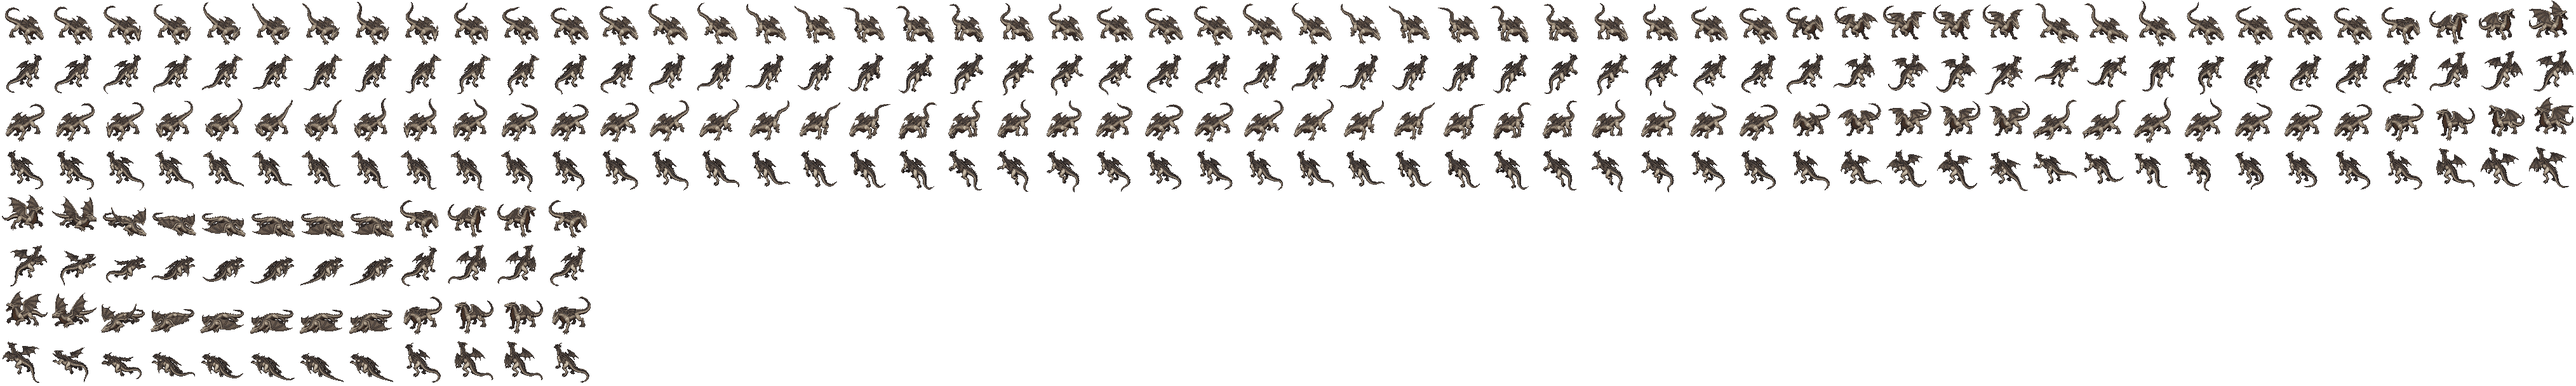
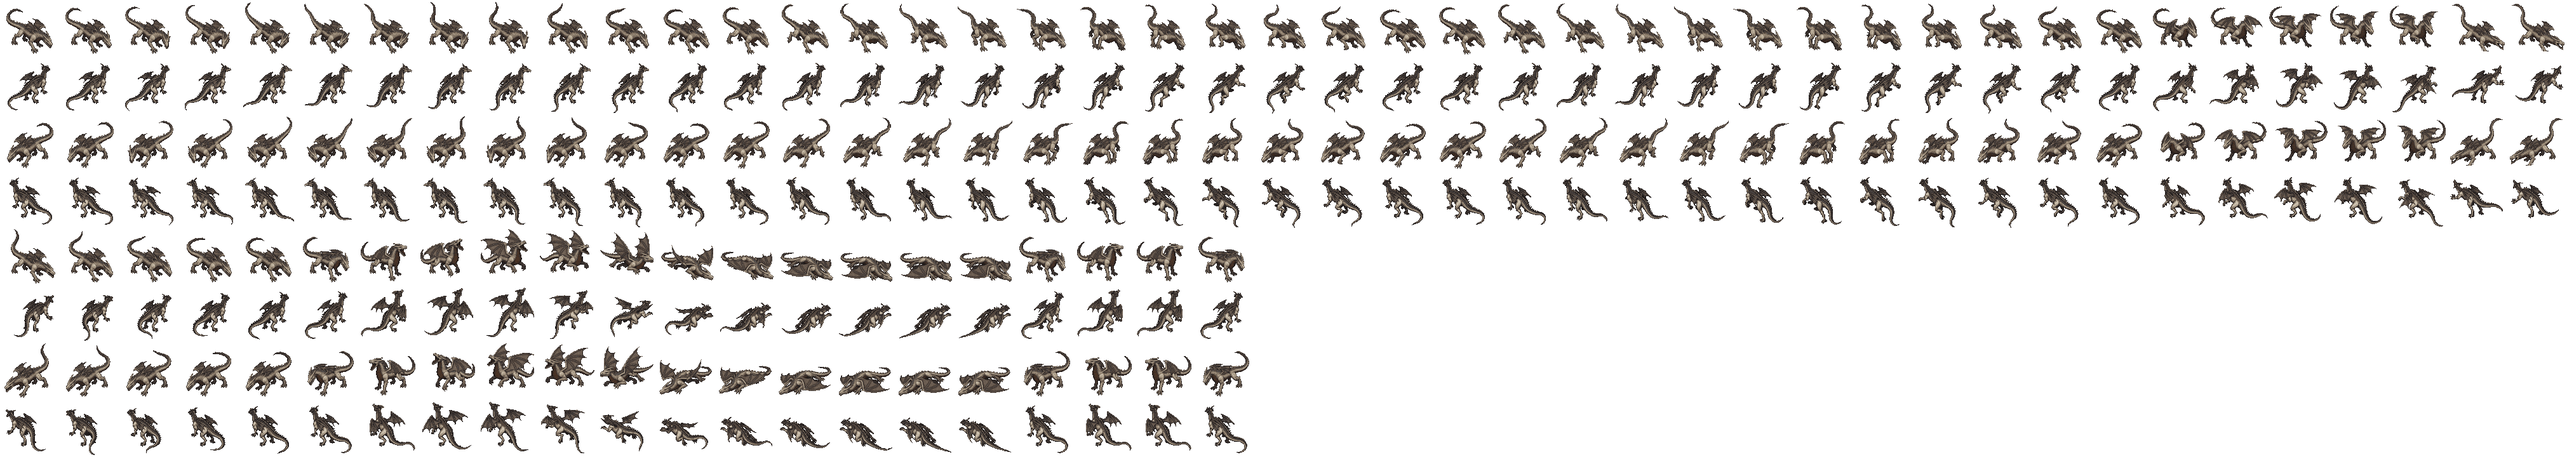
feat(war-art): serpent, scorpion, harpy and drake at true size; every beast draws at a whole scale
Scorpion, harpy and drake rebuilt from their refetched, re-cleaned raws at
shrink x old view scale; the serpent's jobs expired, so its sheet is redrawn by
upsheet.mjs x1.2. VIEW_SCALE is now empty, their chiefs draw at 2. Route,
frame swaps and lessons in PROMPTS_ART.md section 50.

Changed region(s): [[0.0, 0.0, 1.0, 1.0]]

diff --git a/src/data/warWild.ts b/src/data/warWild.ts
@@ -41,11 +41,11 @@ export const CHIEF_KINDS: Readonly<Record<string, ChiefKind>> = {
   bandit: { scale: 1.6, tint: 0xd8b890, hp: 15, dmg: 1.6, armor: 6, escort: 6, loot: { coin: 25, goods: { iron: 4 }, per: 0.5, item: { chance: 0.5, rarity: [['uncommon', 45], ['rare', 45], ['epic', 10]] } } },
   jackal: { scale: 2, tint: 0xd8b070, hp: 76, dmg: 2.6, armor: 6, escort: 5, loot: { coin: 10, goods: { hides: 5 }, per: 0.5, item: BEAST_ITEM } },
   lion: { scale: 2, tint: 0xe0a860, hp: 24, dmg: 1.7, armor: 6, escort: 2, loot: { coin: 15, goods: { hides: 8 }, per: 0.5, item: BEAST_ITEM } },
-  serpent: { scale: 1.6, tint: 0x8ab088, hp: 12.5, dmg: 1.5, armor: 6, escort: 1, loot: { coin: 15, goods: { hides: 6, herbs: 4 }, per: 0.5, item: BEAST_ITEM } },
-  scorpion: { scale: 1.6, tint: 0x6a5048, hp: 15.5, dmg: 1.6, armor: 6, escort: 2, loot: { coin: 15, goods: { hides: 4, herbs: 4 }, per: 0.5, item: BEAST_ITEM } },
-  harpy: { scale: 1.6, tint: 0xa898b8, hp: 43, dmg: 1.8, armor: 6, escort: 3, loot: { coin: 12, goods: { linen: 3 }, per: 0.5, item: BEAST_ITEM } },
+  serpent: { scale: 2, tint: 0x8ab088, hp: 12.5, dmg: 1.5, armor: 6, escort: 1, loot: { coin: 15, goods: { hides: 6, herbs: 4 }, per: 0.5, item: BEAST_ITEM } },
+  scorpion: { scale: 2, tint: 0x6a5048, hp: 15.5, dmg: 1.6, armor: 6, escort: 2, loot: { coin: 15, goods: { hides: 4, herbs: 4 }, per: 0.5, item: BEAST_ITEM } },
+  harpy: { scale: 2, tint: 0xa898b8, hp: 43, dmg: 1.8, armor: 6, escort: 3, loot: { coin: 12, goods: { linen: 3 }, per: 0.5, item: BEAST_ITEM } },
   cyclops: { scale: 1.6, tint: 0xc0a890, hp: 2.85, dmg: 1.2, armor: 6, escort: 1, loot: { coin: 25, goods: { bronze: 4, food: 10 }, per: 0.5, item: { chance: 0.5, rarity: [['uncommon', 40], ['rare', 48], ['epic', 12]] } } },
-  drake: { scale: 1.6, tint: 0xd07858, hp: 14, dmg: 1.6, armor: 6, escort: 2, loot: { coin: 15, goods: { hides: 8 }, per: 0.5, item: BEAST_ITEM } },
+  drake: { scale: 2, tint: 0xd07858, hp: 14, dmg: 1.6, armor: 6, escort: 2, loot: { coin: 15, goods: { hides: 8 }, per: 0.5, item: BEAST_ITEM } },
 };
 
 /** The named chiefs (a region's fill pass picks from those of its lair kinds; hidden quests name theirs). */

diff --git a/src/war/view/mobScale.ts b/src/war/view/mobScale.ts
@@ -3,16 +3,15 @@
  * (scripts/art/pixellab/mobs/sizes.mjs; a man's box 64 px ~ 1.8 m) against the beast's real shoulder height and length
  * seen from above: a wolf to a man's hip, a bear and a lion as tall as his chest and twice as long. The beast guardians
  * stand 2.5x a man and 2.5x their kind at least; the man-sized ones (the King, the queens) keep a man's size.
- * A kind not listed draws at 1: its sheet is built at true size (docs/v5/pixellab/MOBS/<kind>.sheet.json `shrink`, the
- * wolf, jackal, boar, bear, lion and ibex; the beast guardians redrawn by scripts/art/pixellab/mobs/upsheet.mjs), so every
- * sheet pixel is one world pixel and none is drawn wider than another.
+ * A kind not listed draws at 1: its sheet is built at true size (docs/v5/pixellab/MOBS/<kind>.sheet.json `shrink`; the
+ * beast guardians and the serpent redrawn by scripts/art/pixellab/mobs/upsheet.mjs), so every sheet pixel is one world
+ * pixel and none is drawn wider than another. Every beast is built so now; the table stays for a sheet not yet redone.
  */
-export const VIEW_SCALE: Readonly<Record<string, number>> = {
-  mob_serpent: 1.2, mob_scorpion: 1.15, mob_harpy: 1.3, mob_drake: 1.2,
-};
+export const VIEW_SCALE: Readonly<Record<string, number>> = {};
 
 /** The ring under a beast whose sheet is built at true size: the ring it had while the sheet was drawn up by this much. */
 export const RING_SCALE: Readonly<Record<string, number>> = {
   mob_wolf: 1.5, mob_jackal: 1.15, mob_boar: 1.6, mob_bear: 1.6, mob_lion: 1.75, mob_ibex: 1.45,
+  mob_serpent: 1.2, mob_scorpion: 1.15, mob_harpy: 1.3, mob_drake: 1.2,
   mob_moor_bear: 1.15, mob_savanna_lion: 1.35, mob_erymanthian_boar: 1.3, mob_griffin: 1.16, mob_minotaur: 1.08, mob_chimera: 1.38,
 };

diff --git a/tests/war/feel.test.ts b/tests/war/feel.test.ts
@@ -197,7 +197,7 @@ describe('mobs at true size', () => {
 
   it('beasts are not drawn smaller than their sheets, and a bear outsizes a wolf', () => {
     for (const k of MOB_KINDS) expect(VIEW_SCALE[`mob_${k}`] ?? 1, k).toBeGreaterThanOrEqual(1);
-    for (const k of ['wolf', 'jackal', 'boar', 'bear', 'lion', 'ibex']) expect(VIEW_SCALE[`mob_${k}`] ?? 1, `${k} at true size: crisp`).toBe(1);
+    for (const k of MOB_KINDS) expect(VIEW_SCALE[`mob_${k}`] ?? 1, `${k} at true size: crisp`).toBe(1);
     expect(bearSheet.frame.w * bearSheet.frame.h).toBeGreaterThan(wolfSheet.frame.w * wolfSheet.frame.h);
     for (const g of Object.values(GUARDIANS)) expect(VIEW_SCALE[g.cls] ?? 1, g.cls).toBeGreaterThanOrEqual(1);
   });

diff --git a/docs/playbook/PROMPTS_ART.md b/docs/playbook/PROMPTS_ART.md
@@ -3634,3 +3634,36 @@ fixed the ones that stopped short: Skythia East's upland road now ends at the ch
 both tiers to a cairn on top (it stopped under the second wall); Kyrene's butte road starts off the north road (it began
 in open sand) and the escarpment road ends at a watch post; the gorge path to the forge starts off the west road; the
 Western Heath coast track starts at a coast watch tower.
+
+## 50. Beasts at true size (beast-sheets)
+
+W-75 drew the beasts at true size with view-only scales (`src/war/view/mobScale.ts`: wolf 1.5, boar and bear 1.6, lion
+1.75, ...; guardians 1.08-1.38) and chiefs 1.6x on top, so their pixels came out uneven. Every mob sheet is now built at
+its true size and draws at 1 (chiefs of the beast kinds at 2, a whole scale; bandit and cyclops chiefs stay 1.6).
+**0 PixelLab generations**: no new prompts; the art is the shipped art, resampled.
+
+**Route.** (1) Kinds built smaller than their raws (wolf, jackal, boar, ibex, scorpion, harpy, drake): refetch the raws
+(`fetch.mjs <character>`, `fetchjobs.mjs <jobs.json>`, the §47 `clean.mjs` flags again) and rebuild with `shrink` x the
+old view scale (wolf 0.825, jackal 0.5175, boar 0.88, ibex 0.9, scorpion 0.46, harpy 0.546, drake 0.6). Before changing
+the shrink, rebuild at the old one and diff with the shipped PNG: it came back pixel-identical, so the route is sound.
+(2) Kinds whose true size is above their raws (bear 1.2, lion 1.26 of the 68 px character): `"pre2x": true` in the spec
+(Scale2x, then shrink / 2), so no source pixel is doubled unevenly. (3) Sheets built at shrink 1 (the six beast
+guardians) or whose raws are gone (the serpent: its PixMiniMax jobs answer 404 after some weeks; so did the lion's die,
+whose frames were still inside the character zip as `mob_lion_die*` at the job's 92 canvas, input frame first):
+`scripts/art/pixellab/mobs/upsheet.mjs <class> <f> [--white T] [clip:i=j[:rows]]` redraws the shipped sheet by Scale2x
+and an area shrink to f. The exact commands are in each `GUARD/<kind>.sheet.json` (`upsheet`).
+
+**Rings and flashes.** `sheet.scale` did double duty: the selection ring and the guardian's gold man-sized mark read it.
+`RING_SCALE` (mobScale.ts) keeps each remade kind's old ring; the soft beast shadow follows the frame as drawn.
+
+**Frame swaps found on the bigger sheets** (they were there before, too small to see): wolf/jackal SE idle frame 3
+missing from the zip (frame 2 held); boar NW die 0 (pale patch) and SE run 5 (pale mouth); bear SE die 0 (grey spray)
+and SW idle frame 4 missing; lion die 0 (grey spray, all rows); ibex SE run (orange patches: mirrored from SW); moor bear
+NW/NE attack 6 (rubble); Minotaur attack 4 (rubble, front rows) and 5 (back rows); Chimera attack 5 (broken paw, front
+rows); Erymanthian boar and griffin near-white streaks cut (`--white 200`), griffin charge 1.
+
+**Lessons:** (1) Keep the raws' job ids, but do not count on them: refetch a kind's jobs soon after shipping it, or keep
+its cleaned frames. (2) A frame missing from a character zip shifts every later clip of that row; check frame counts per
+direction before a build. (3) Scale2x + area shrink makes a clean 1.1-1.4x redraw of finished pixel art; plain nearest
+at a non-whole scale does not. (4) Open issues: the small lion's walk and run show a doubled head in a few frames (the
+template clips), and the guardians' die clips keep a little dust; both need rerolls, not resampling.
